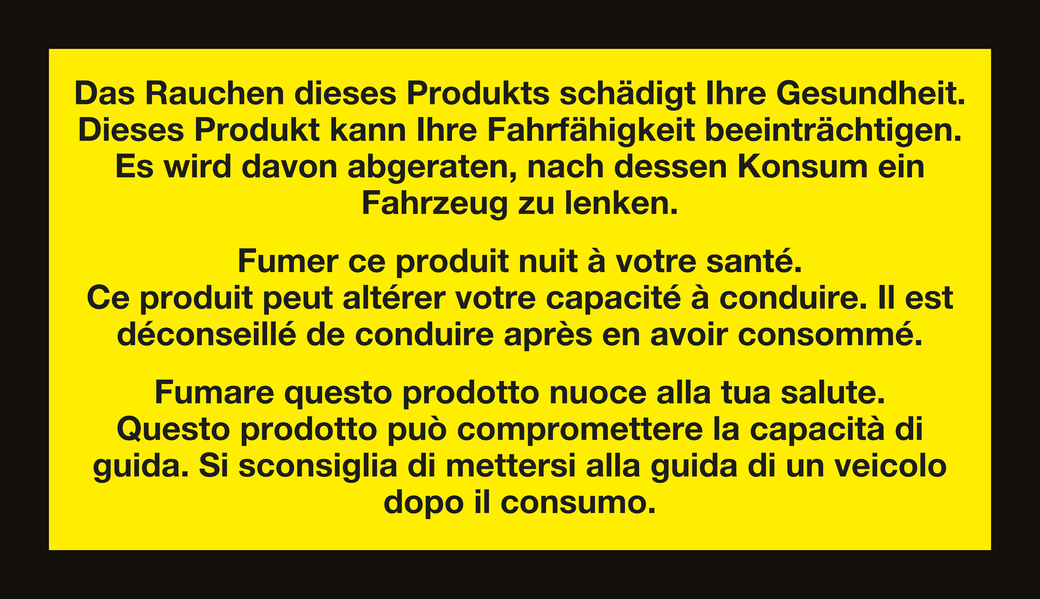
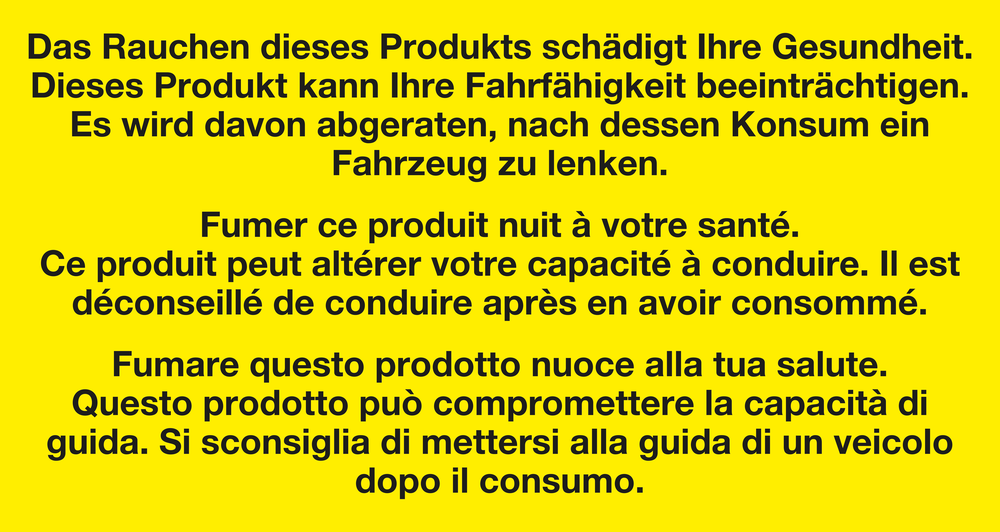
clean 2/3 KI + 1/3 warning layout, drop-shadow + warning-border removed
- composite: KI fills top 900px (2/3), yellow warning strip bottom 450px (1/3)
- //pure logo top-center on KI, gold, no drop shadow / glow
- assets/warning.png re-extracted from source: cropped tight to yellow content
  (was 1040x599 with dark border baked-in, now 1000x532 pure yellow)
- removed _drop_shadow + _tint helpers (no more "gray" artifacts)

diff --git a/lib/composite.py b/lib/composite.py
@@ -2,118 +2,71 @@ from __future__ import annotations
 
 from io import BytesIO
 from pathlib import Path
-from PIL import Image, ImageDraw, ImageFilter, ImageFont, ImageOps
+from PIL import Image, ImageDraw, ImageFont, ImageOps
 
 
 TEMPLATE_W, TEMPLATE_H = 1080, 1350
 
-# === Logo watermark (top-center, white-tinted, drop shadow) ===
-LOGO_W = 380           # ~35% of template width
-LOGO_H = 113           # aspect 672/168 = 4.0
+# === Layout: KI fills top 2/3, yellow warning strip bottom 1/3 ===
+KI_H = (TEMPLATE_H * 2) // 3              # 900
+WARNING_STRIP_H = TEMPLATE_H - KI_H       # 450
+WARNING_STRIP_Y = KI_H                    # 900
+
+# === Logo watermark on KI ===
+LOGO_W = 320
+LOGO_H = 80
 LOGO_X = (TEMPLATE_W - LOGO_W) // 2
-LOGO_Y = 80
-LOGO_TINT = (255, 255, 255)      # white
-LOGO_OPACITY = 1.0
-LOGO_SHADOW_OFFSET = (0, 8)
-LOGO_SHADOW_BLUR = 18
-LOGO_SHADOW_OPACITY = 0.6
+LOGO_Y = 50
 
-# === Warning band at bottom (full-width yellow strip) ===
-WARNING_STRIP_H = 240
-WARNING_PAD_TOP = 24
-WARNING_BG_COLOR = (242, 215, 26, 255)
-WARNING_H = WARNING_STRIP_H - WARNING_PAD_TOP * 2 - 40  # leave space for URL line under
-WARNING_W = int(WARNING_H * (1040 / 599))               # preserve aspect 1.735
-if WARNING_W > TEMPLATE_W - 100:
-    WARNING_W = TEMPLATE_W - 100
-    WARNING_H = int(WARNING_W * (599 / 1040))
+# === Warning image inside yellow strip (centered, with margin) ===
+WARNING_PAD = 30
+_warn_h_max = WARNING_STRIP_H - WARNING_PAD * 2          # 390
+_warn_w_max = TEMPLATE_W - WARNING_PAD * 2               # 1020
+# warning.png is 1040x599 → aspect 1.7362
+WARNING_ASPECT = 1000 / 532
+WARNING_H = _warn_h_max
+WARNING_W = int(WARNING_H * WARNING_ASPECT)
+if WARNING_W > _warn_w_max:
+    WARNING_W = _warn_w_max
+    WARNING_H = int(WARNING_W / WARNING_ASPECT)
 WARNING_X = (TEMPLATE_W - WARNING_W) // 2
-WARNING_Y = TEMPLATE_H - WARNING_STRIP_H + WARNING_PAD_TOP
+WARNING_Y = WARNING_STRIP_Y + (WARNING_STRIP_H - WARNING_H) // 2
 
-# === Domain text under warning (inside the strip) ===
-DOMAIN_TEXT = "WWW.PURE-CANNABIS.COM"
-DOMAIN_COLOR = (40, 30, 0, 255)
-
-# === KI image: full bleed (1080x1350 cover) ===
-KI_CENTERING = (0.5, 0.5)
+# === Colors ===
+WARNING_BG_COLOR = (242, 215, 26, 255)   # match warning.png yellow
+DOMAIN_COLOR = (30, 20, 0, 255)
 
 ASSETS_DIR = Path(__file__).parent.parent / "assets"
 LOGO_PATH = ASSETS_DIR / "pure_logo.png"
 WARNING_PATH = ASSETS_DIR / "warning.png"
 
 
-def _tint(img: Image.Image, color: tuple[int, int, int], opacity: float = 1.0) -> Image.Image:
-    """Recolor a transparent-bg glyph image to a single colour, preserving alpha."""
-    r, g, b, a = img.split()
-    tinted = Image.merge("RGBA", (
-        Image.new("L", img.size, color[0]),
-        Image.new("L", img.size, color[1]),
-        Image.new("L", img.size, color[2]),
-        a.point(lambda v: int(v * opacity)),
-    ))
-    return tinted
-
-
-def _drop_shadow(img: Image.Image, offset: tuple[int, int], blur: int, opacity: float) -> Image.Image:
-    """Return a new RGBA with a drop-shadow halo + img on top."""
-    pad = blur * 2 + max(abs(offset[0]), abs(offset[1]))
-    w, h = img.size
-    base = Image.new("RGBA", (w + pad * 2, h + pad * 2), (0, 0, 0, 0))
-    shadow_mask = img.split()[-1].point(lambda v: int(v * opacity))
-    shadow = Image.new("RGBA", img.size, (0, 0, 0, 255))
-    shadow.putalpha(shadow_mask)
-    shadow = shadow.filter(ImageFilter.GaussianBlur(blur))
-    base.alpha_composite(shadow, (pad + offset[0], pad + offset[1]))
-    base.alpha_composite(img, (pad, pad))
-    return base
-
-
-def _font(size: int) -> ImageFont.FreeTypeFont:
-    """Best-effort font loading; falls back to default."""
-    candidates = [
-        "/usr/share/fonts/truetype/dejavu/DejaVuSans-Bold.ttf",
-        "/System/Library/Fonts/Helvetica.ttc",
-        "/System/Library/Fonts/Supplemental/Arial.ttf",
-    ]
-    for p in candidates:
-        try:
-            return ImageFont.truetype(p, size)
-        except Exception:
-            continue
-    return ImageFont.load_default()
-
-
 def composite(ki_bytes: bytes) -> bytes:
     ki = Image.open(BytesIO(ki_bytes)).convert("RGBA")
 
-    # 1) KI as full-bleed canvas (center-crop to 1080x1350)
-    canvas = ImageOps.fit(ki, (TEMPLATE_W, TEMPLATE_H), Image.LANCZOS, centering=KI_CENTERING)
+    canvas = Image.new("RGBA", (TEMPLATE_W, TEMPLATE_H), (0, 0, 0, 255))
 
-    # 2) Bottom warning strip — full-width opaque yellow
+    # 1) KI cover-fits the top 2/3 region
+    ki_fitted = ImageOps.fit(ki, (TEMPLATE_W, KI_H), Image.LANCZOS, centering=(0.5, 0.5))
+    canvas.alpha_composite(ki_fitted, (0, 0))
+
+    # 2) Yellow warning strip — full-width, bottom 1/3
     strip = Image.new("RGBA", (TEMPLATE_W, WARNING_STRIP_H), WARNING_BG_COLOR)
-    canvas.alpha_composite(strip, (0, TEMPLATE_H - WARNING_STRIP_H))
+    canvas.alpha_composite(strip, (0, WARNING_STRIP_Y))
 
+    # 3) Warning image centered inside strip (preserves aspect)
     if WARNING_PATH.exists():
-        warn = Image.open(WARNING_PATH).convert("RGBA").resize((WARNING_W, WARNING_H), Image.LANCZOS)
+        warn = Image.open(WARNING_PATH).convert("RGBA").resize(
+            (WARNING_W, WARNING_H), Image.LANCZOS
+        )
         canvas.alpha_composite(warn, (WARNING_X, WARNING_Y))
 
-    # 3) Domain text below warning, inside strip
-    draw = ImageDraw.Draw(canvas)
-    domain_font = _font(20)
-    bbox = draw.textbbox((0, 0), DOMAIN_TEXT, font=domain_font)
-    tx = (TEMPLATE_W - (bbox[2] - bbox[0])) // 2
-    ty = TEMPLATE_H - 32
-    draw.text((tx, ty), DOMAIN_TEXT, font=domain_font, fill=DOMAIN_COLOR)
-
-    # 4) //pure watermark — top-center, white, drop shadow
+    # 4) //pure logo watermark, top-center, NO drop shadow (clean overlay)
     if LOGO_PATH.exists():
-        logo_src = Image.open(LOGO_PATH).convert("RGBA").resize((LOGO_W, LOGO_H), Image.LANCZOS)
-        logo_white = _tint(logo_src, LOGO_TINT, LOGO_OPACITY)
-        logo_with_shadow = _drop_shadow(
-            logo_white, LOGO_SHADOW_OFFSET, LOGO_SHADOW_BLUR, LOGO_SHADOW_OPACITY
+        logo = Image.open(LOGO_PATH).convert("RGBA").resize(
+            (LOGO_W, LOGO_H), Image.LANCZOS
         )
-        pad = LOGO_SHADOW_BLUR * 2 + max(abs(LOGO_SHADOW_OFFSET[0]), abs(LOGO_SHADOW_OFFSET[1]))
-        canvas.alpha_composite(logo_with_shadow, (LOGO_X - pad, LOGO_Y - pad))
+        canvas.alpha_composite(logo, (LOGO_X, LOGO_Y))
 
     out = BytesIO()
     canvas.convert("RGB").save(out, format="PNG", optimize=True)

diff --git a/tests/test_composite.py b/tests/test_composite.py
@@ -6,7 +6,7 @@ import sys
 ROOT = Path(__file__).parent.parent
 sys.path.insert(0, str(ROOT))
 
-from lib.composite import composite, TEMPLATE_W, TEMPLATE_H, LOGO_Y, LOGO_H, WARNING_Y, WARNING_STRIP_H
+from lib.composite import composite, TEMPLATE_W, TEMPLATE_H, KI_H, LOGO_Y, LOGO_H, WARNING_STRIP_Y, WARNING_STRIP_H
 
 
 def _synthetic_ki(color=(50, 130, 200, 255)) -> bytes:
@@ -22,12 +22,19 @@ def test_composite_dimensions():
     assert img.size == (TEMPLATE_W, TEMPLATE_H), f"Expected {TEMPLATE_W}x{TEMPLATE_H}, got {img.size}"
 
 
-def test_composite_ki_fills_canvas():
+def test_composite_ki_fills_top_two_thirds():
     out = composite(_synthetic_ki(color=(255, 0, 0, 255)))
     img = Image.open(BytesIO(out)).convert("RGB")
-    # KI is full-bleed: top half of image should be saturated red
-    px = img.getpixel((TEMPLATE_W // 2, TEMPLATE_H // 4))
-    assert px[0] > 200 and px[1] < 60 and px[2] < 60, f"KI not full-bleed, got {px}"
+    px = img.getpixel((TEMPLATE_W // 2, KI_H // 2))
+    assert px[0] > 200 and px[1] < 60 and px[2] < 60, f"KI top 2/3 not filled, got {px}"
+
+
+def test_composite_warning_strip_is_third():
+    out = composite(_synthetic_ki(color=(0, 0, 255, 255)))
+    img = Image.open(BytesIO(out)).convert("RGB")
+    # sample inside the yellow BG band, above where warning.png sits (top padding region)
+    px = img.getpixel((10, WARNING_STRIP_Y + 5))
+    assert px[0] > 200 and px[1] > 180 and px[2] < 100, f"Warning strip not yellow: {px}"
 
 
 def test_composite_logo_watermark_visible():
@@ -44,30 +51,11 @@ def test_composite_logo_watermark_visible():
     assert False, f"Watermark logo not bright enough; bright={bright}"
 
 
-def test_composite_warning_strip_yellow():
-    out = composite(_synthetic_ki(color=(0, 100, 200, 255)))
-    img = Image.open(BytesIO(out)).convert("RGB")
-    px = img.getpixel((TEMPLATE_W // 2, TEMPLATE_H - WARNING_STRIP_H // 2))
-    assert px[0] > 200 and px[1] > 180 and px[2] < 100, f"Warning strip not yellow: {px}"
-
-
-def test_composite_domain_under_warning():
-    out = composite(_synthetic_ki(color=(255, 255, 255, 255)))
-    img = Image.open(BytesIO(out)).convert("RGB")
-    # Domain row should still show yellow strip BG with some dark pixels (text)
-    found_dark = False
-    for x in range(TEMPLATE_W // 4, 3 * TEMPLATE_W // 4):
-        px = img.getpixel((x, TEMPLATE_H - 20))
-        if max(px) < 120:
-            found_dark = True
-            break
-    assert found_dark, "Domain text not visible in lower strip"
 
 
 if __name__ == "__main__":
     test_composite_dimensions()
-    test_composite_ki_fills_canvas()
+    test_composite_ki_fills_top_two_thirds()
+    test_composite_warning_strip_is_third()
     test_composite_logo_watermark_visible()
-    test_composite_warning_strip_yellow()
-    test_composite_domain_under_warning()
     print("All composite tests passed.")
